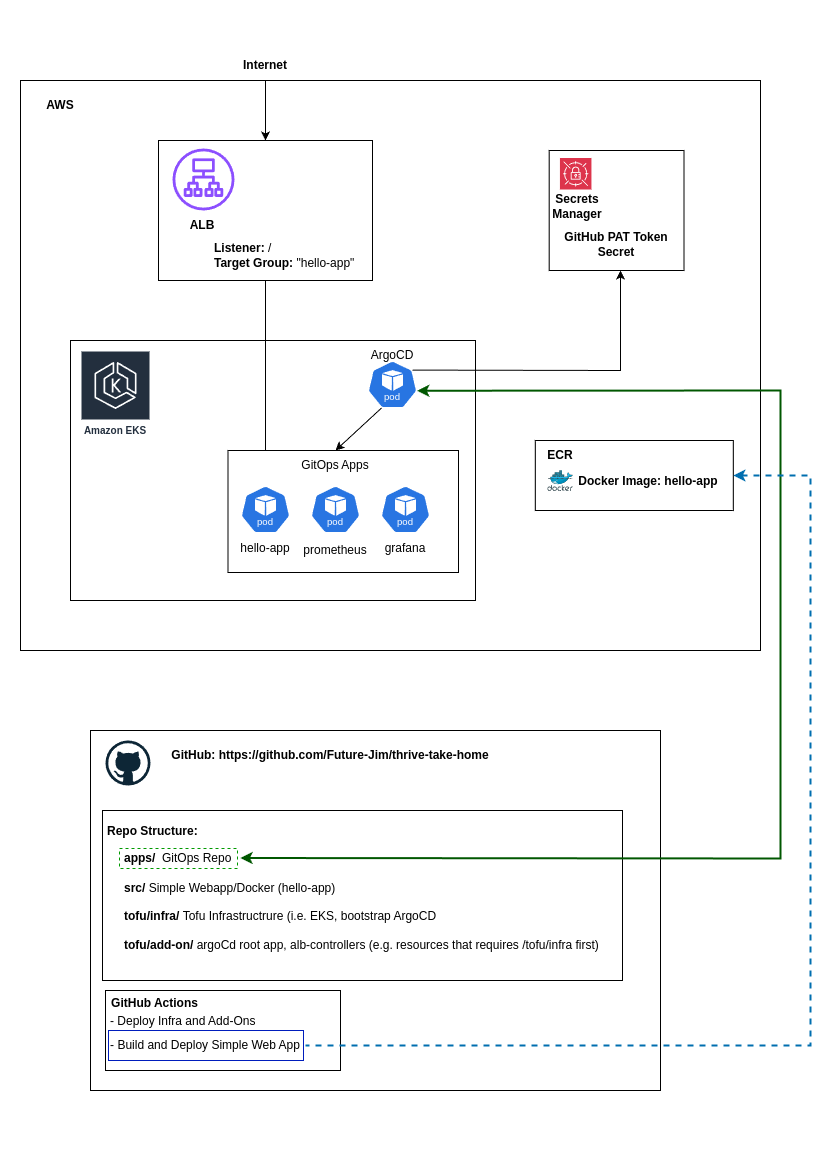
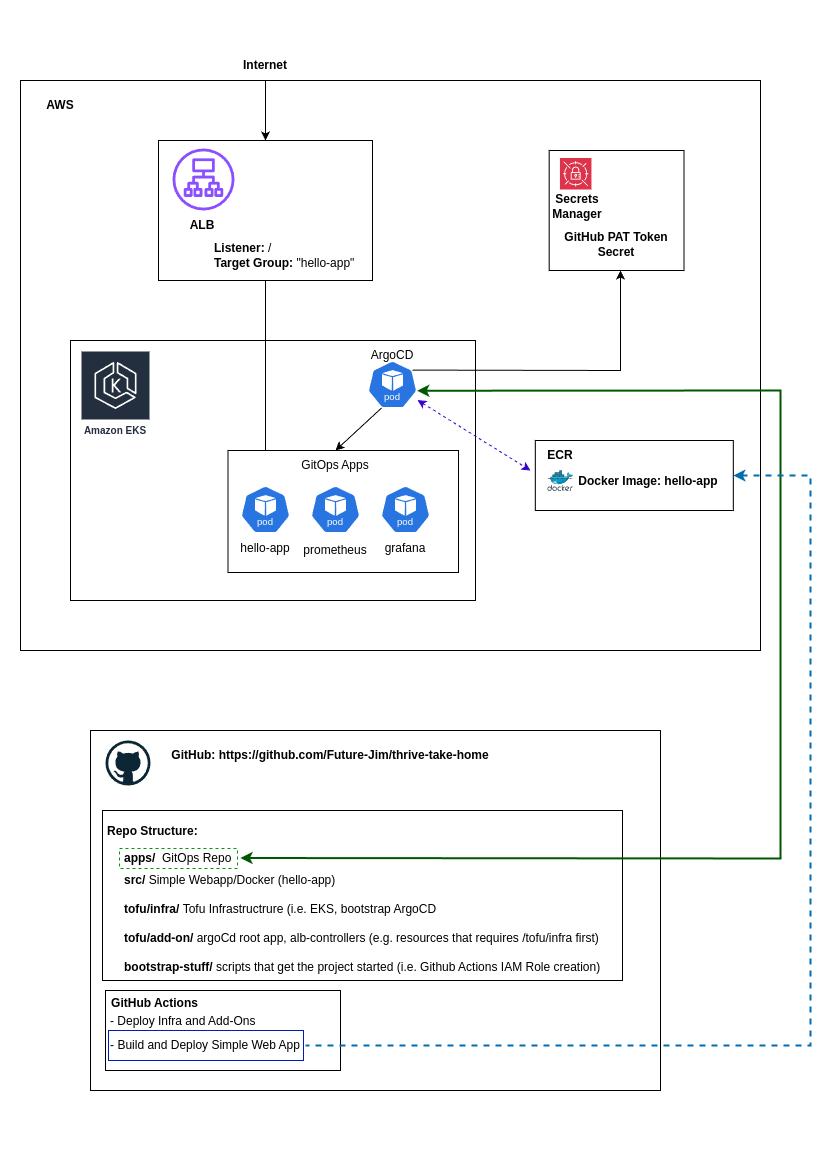
bump

Changed region(s): [[0.1511, 0.7391, 0.7255, 0.8315]]

diff --git a/README.md b/README.md
@@ -4,6 +4,7 @@
 
 - [thrive-take-home](#thrive-take-home)
 - [Table of Contents](#table-of-contents)
+  - [Basic Idea](#basic-idea)
   - [Prerequisites](#prerequisites)
   - [Overview](#overview)
   - [Getting started](#getting-started)
@@ -11,10 +12,26 @@
   - [Deploying Infrastructure and Add-Ons](#deploying-infrastructure-and-add-ons)
   - [Deploying Simple Web App (hello-app)](#deploying-simple-web-app-hello-app)
   - [To access ArgoCD UI](#to-access-argocd-ui)
+  - [View hello-app](#view-hello-app)
   - [To access Grafana UI](#to-access-grafana-ui)
   - [Tradeoffs](#tradeoffs)
   - [Notes](#notes)
   - [TODO](#todo)
+
+## Basic Idea
+- We have a fully automated GitOps deployment. This includes EKS, ArgoCD, Prometheus/Grafana, Github Actions and a Dockerized Web App.
+- There are four main components to this project
+  1. Bootstrap scripts to get the project started: __bootstrap-stuff/__
+  2. The Core AWS Infrastructure: __tofu/infra/__
+  3. The Additional AWS Infrastructure: __tofu/add-on/__
+  4. The Web App code: __src/__
+  5. The GitOps directory: __apps/__
+
+- The GitHub Actions pipelines consist of two main workflows
+  1. Deploy Infra and Add-Ons
+      - This deploys the Core AWS Infrastructure and the Additional Add ons
+  2. Build and Deploy Simple Web App
+      - This containerizes a simple Golang web app, pushes it to ECR then templates a new argocd application
 
 ## Prerequisites
 1. Access to an AWS Account and the corresponding <ACCOUNT_NUMBER>
@@ -48,21 +65,29 @@
 
 ## Deploying Infrastructure and Add-Ons
 1. Push all files changed in the above steps
-2. In the Github Actions UI, Manually trigger github action "Deploy Infra and Add-Ons". This might need to be run twice :( (TBD)
+2. In the Github Actions UI, Manually trigger github action "Deploy Infra and Add-Ons". Actions -> Deploy Infra and Add-Ons -> Run Workflow
+   - This might need to be run twice :( (TBD)
   - Upon successful completion, you should be able to login to argocd via the steps outlined below in "To access ArgoCD UI"
 
 ## Deploying Simple Web App (hello-app)
-1. Run github action Build and Deploy Simple Web App (make a push in src/)
+1. Run github action Build and Deploy Simple Web App
+   - In the Github Actions UI, Manually trigger github action "Build and Deploy Simple Web App". Actions -> Build and Deploy Simple Web App -> Run Workflow
 2. This action pushes a rendered argoCD/k8s manifest to the apps/hello-app/
 
 ## To access ArgoCD UI
 0. Connect to EKS Cluster: 
    - aws eks update-kubeconfig   --region us-east-1   --name thrive-eks
 1. Obtain default admin password argocd password(user is admin)
-2. kubectl -n argocd get secret argocd-initial-admin-secret -o jsonpath="{.data.password}" | base64 -d
-3. Port forward argocd service
+   - kubectl -n argocd get secret argocd-initial-admin-secret -o jsonpath="{.data.password}" | base64 -d
+2. Port forward argocd service
    - kubectl port-forward service/argocd-server -n argocd 8080:443 
-4. Visit localhost:8080.
+3. Visit localhost:8080.
+4. The hello-app might be pending because it hasn't updated with the newly pushed hello-app container. Sync/Restart the pod if necessary
+
+## View hello-app
+1. There is no Route53 record setup. Simply grab the ALB DNS A record and hit the root 
+   - i.e. k8s-sharedalb-880648ba91-463864373.us-east-1.elb.amazonaws.com/
+   - Ideally, we should have more sophisticated listeners and ingress setups.
 
 ## To access Grafana UI
 0. Connect to EKS Cluster: 
@@ -81,6 +106,7 @@
 - We could automate the manual update of hardcoded variables in the steps above (its error prone and annoying)
 - The gh-pat secret was originally necessary because the repo was private. I made the repo public but kept part of the secret for the sake of demonstrating how to use secrets.
 - Create backend configs for providers instead of manually updating them
+- This was all done on main branch. Would not recommend doing that if this was a collaborate project :)
 - Due a busy schedule, I didn't have time to prepare the alerts via email/slack
   
 
